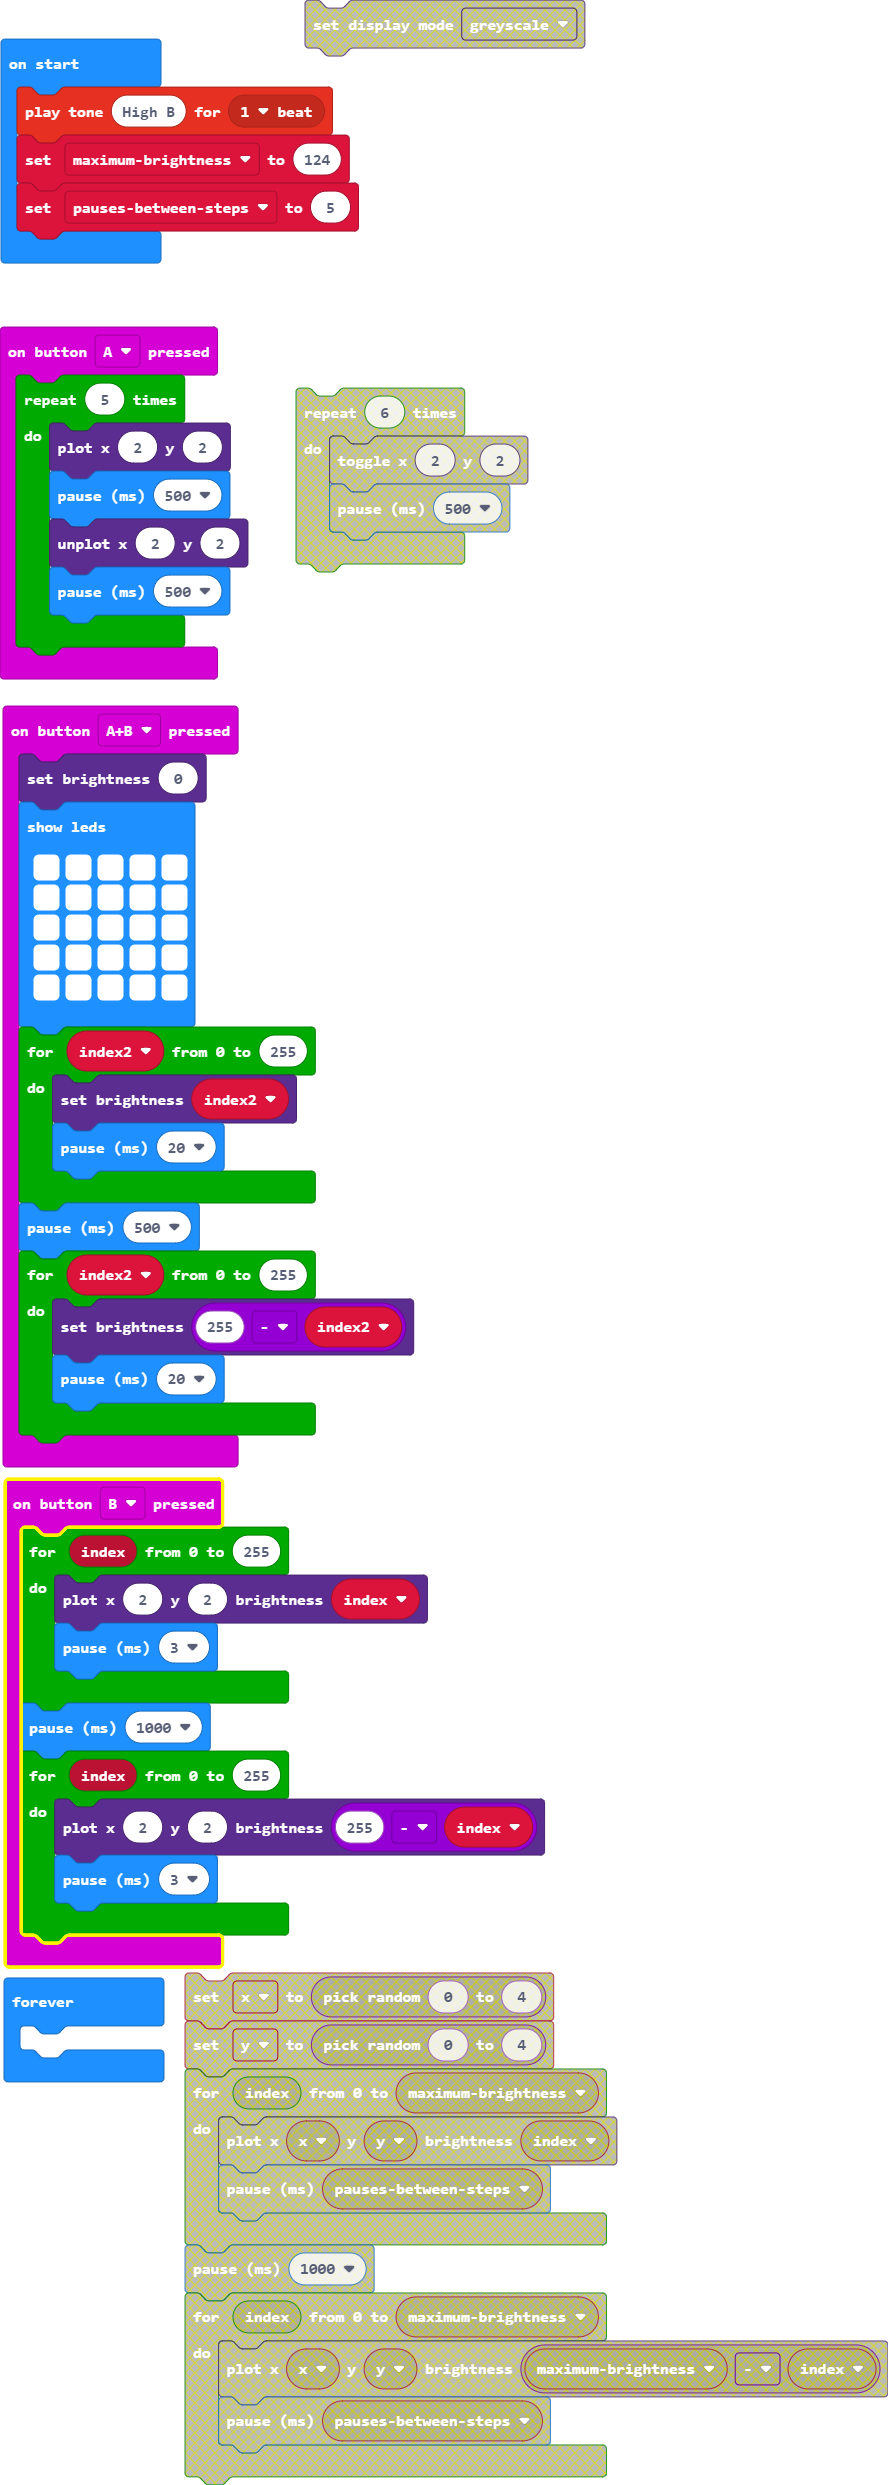
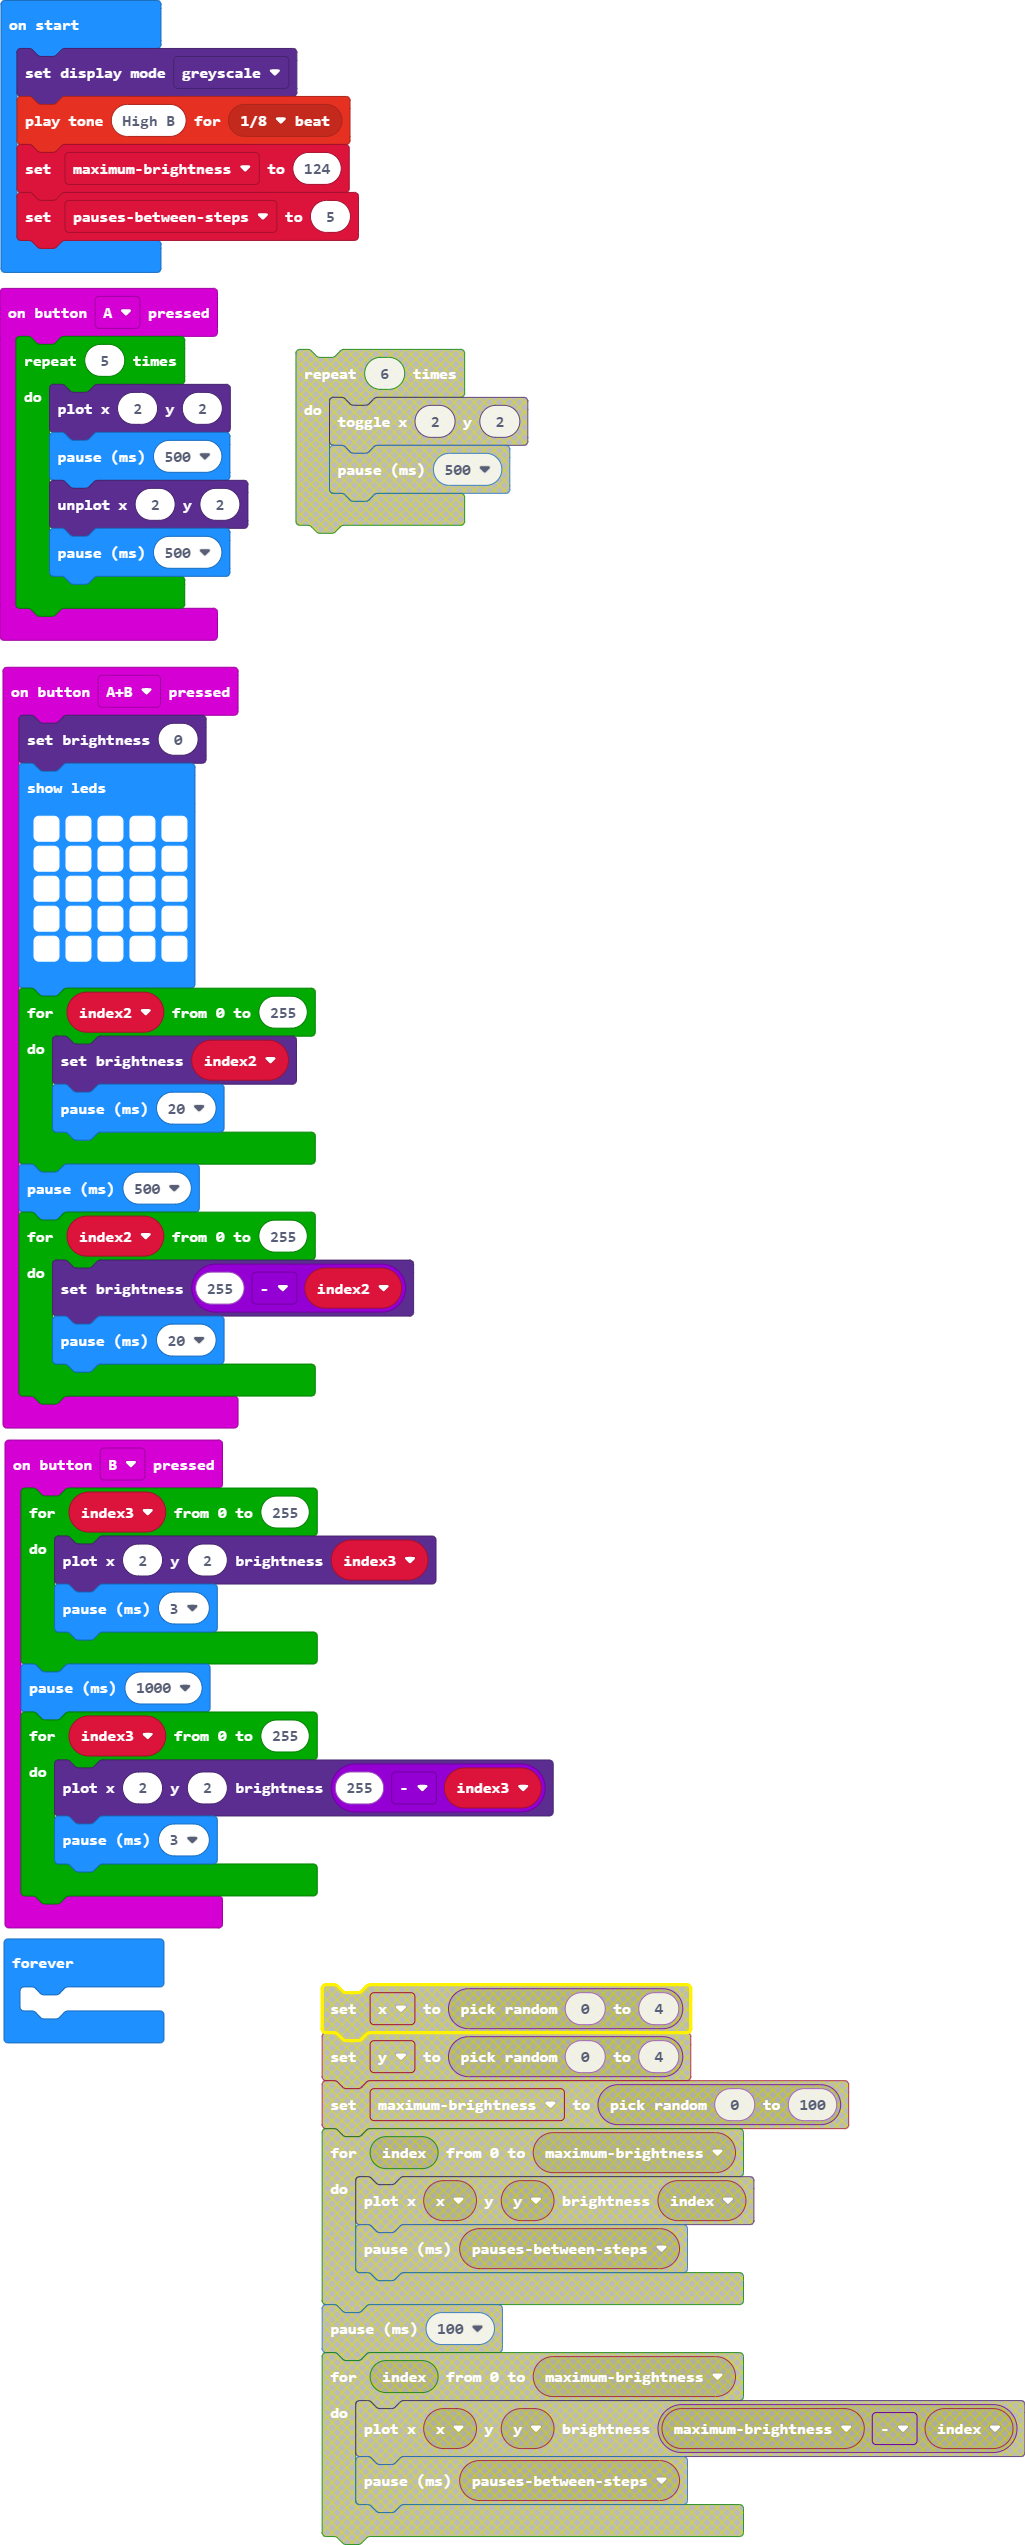
Update main.blocks, main.ts

diff --git a/main.ts b/main.ts
@@ -26,17 +26,18 @@ input.onButtonPressed(Button.AB, function () {
     }
 })
 input.onButtonPressed(Button.B, function () {
-    for (let index = 0; index <= 255; index++) {
-        led.plotBrightness(2, 2, index)
+    for (let index3 = 0; index3 <= 255; index3++) {
+        led.plotBrightness(2, 2, index3)
         basic.pause(3)
     }
     basic.pause(1000)
-    for (let index = 0; index <= 255; index++) {
-        led.plotBrightness(2, 2, 255 - index)
+    for (let index3 = 0; index3 <= 255; index3++) {
+        led.plotBrightness(2, 2, 255 - index3)
         basic.pause(3)
     }
 })
-music.playTone(988, music.beat(BeatFraction.Whole))
+led.setDisplayMode(DisplayMode.Greyscale)
+music.playTone(988, music.beat(BeatFraction.Eighth))
 let maximumbrightness = 124
 let pausesbetweensteps = 5
 basic.forever(function () {
